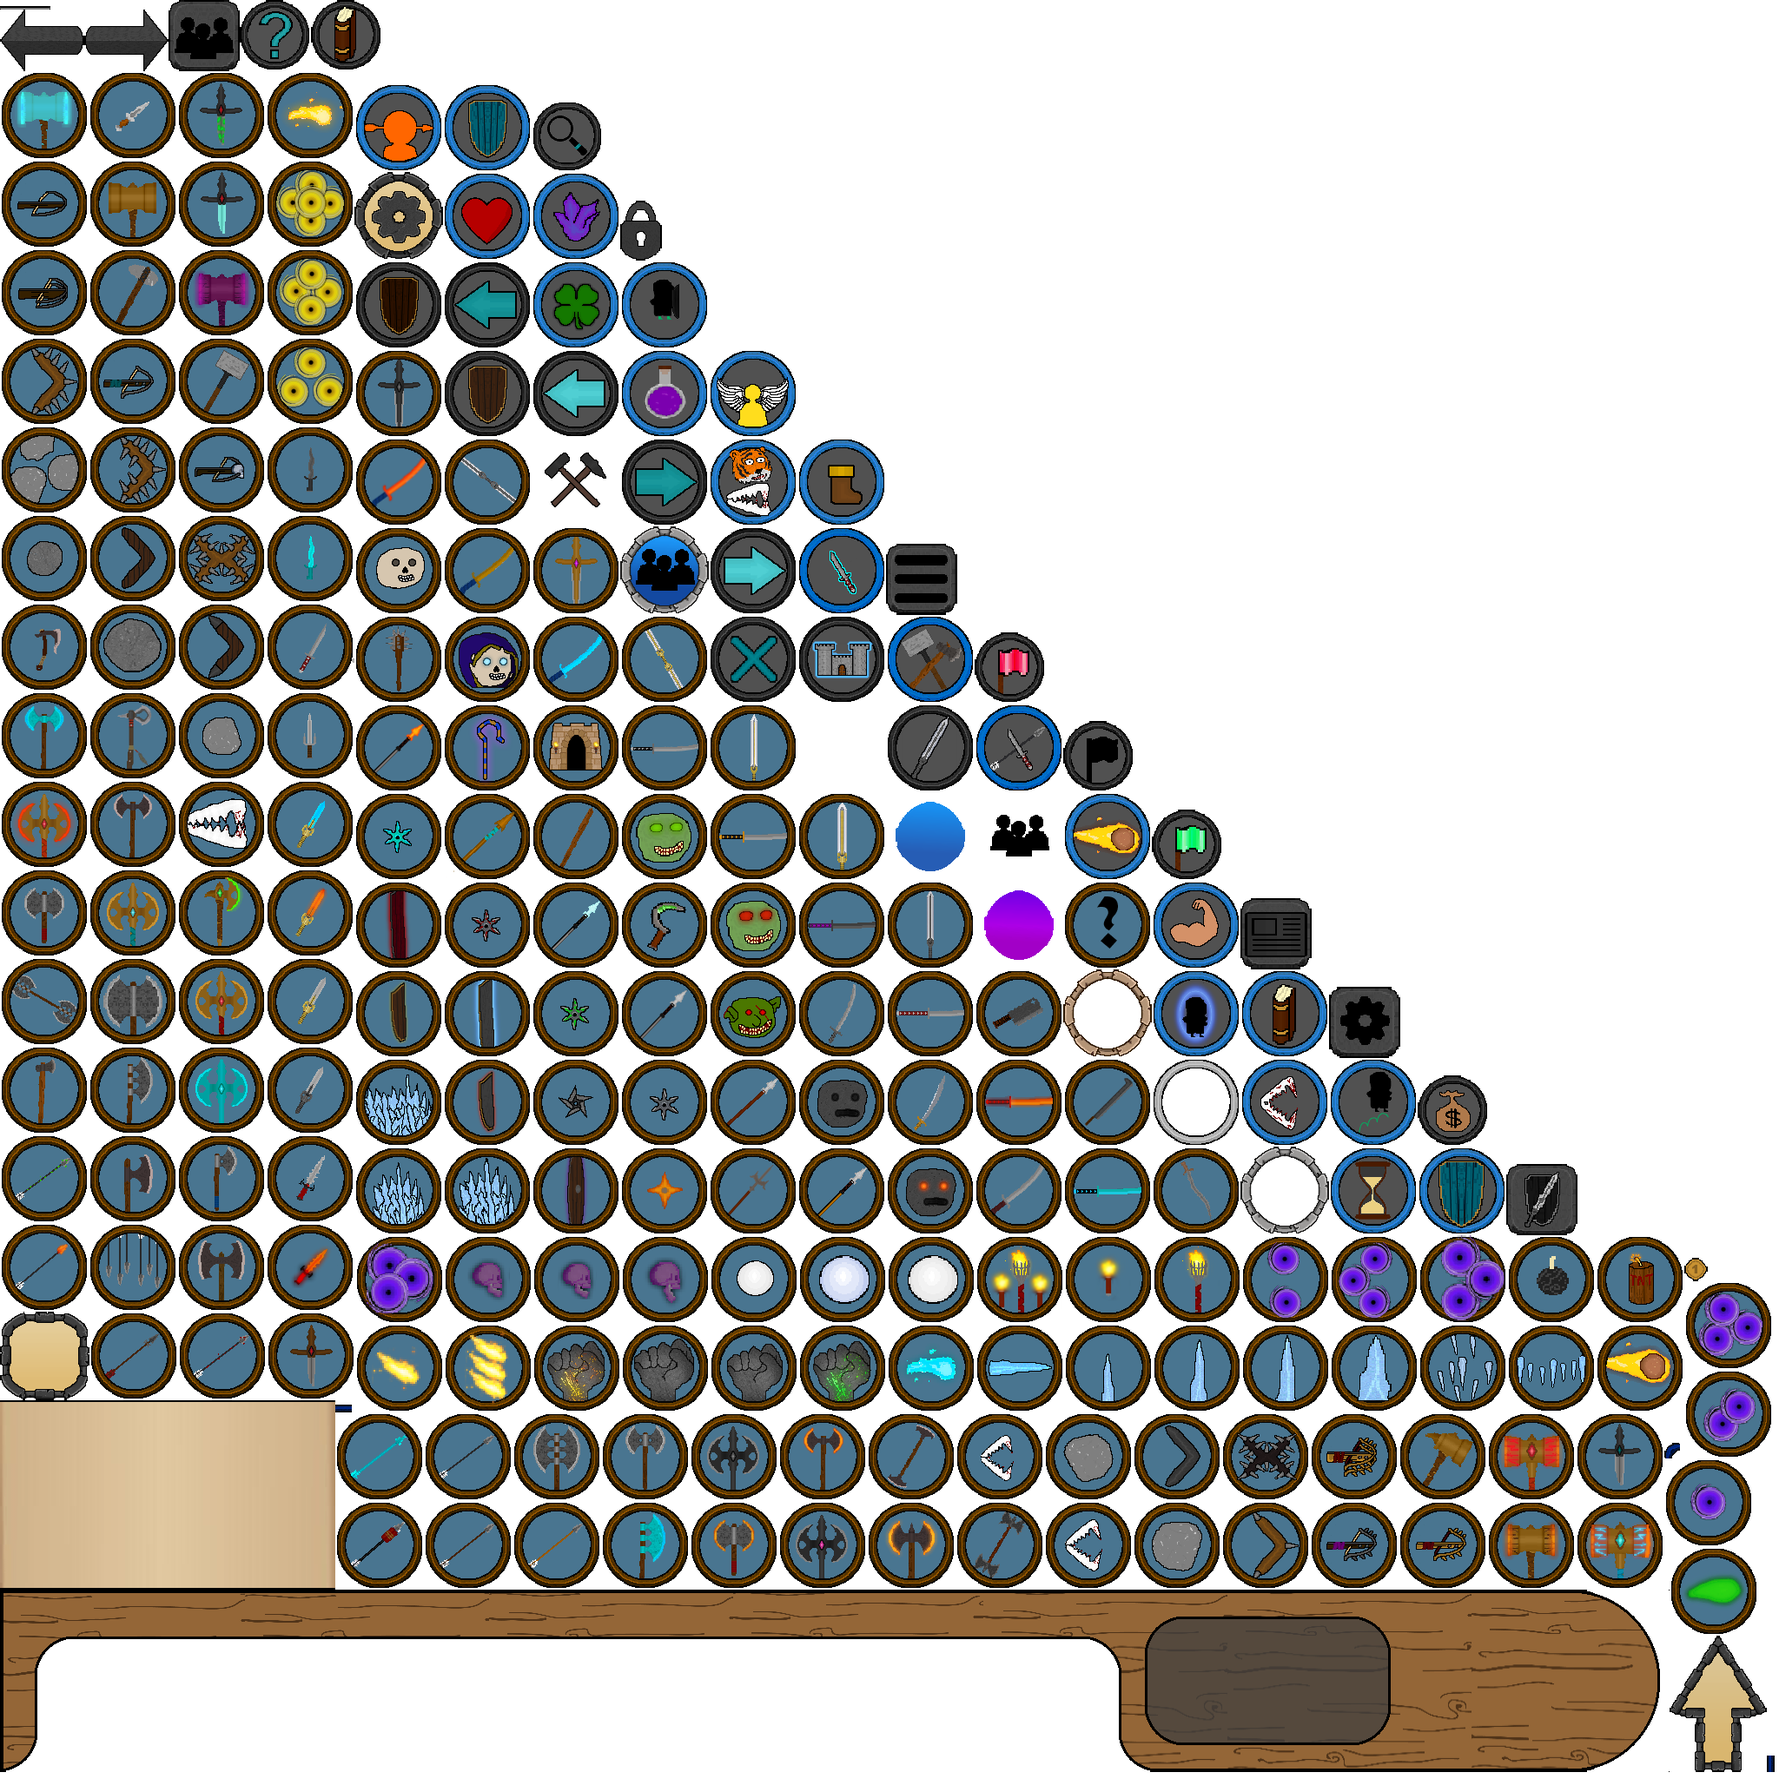
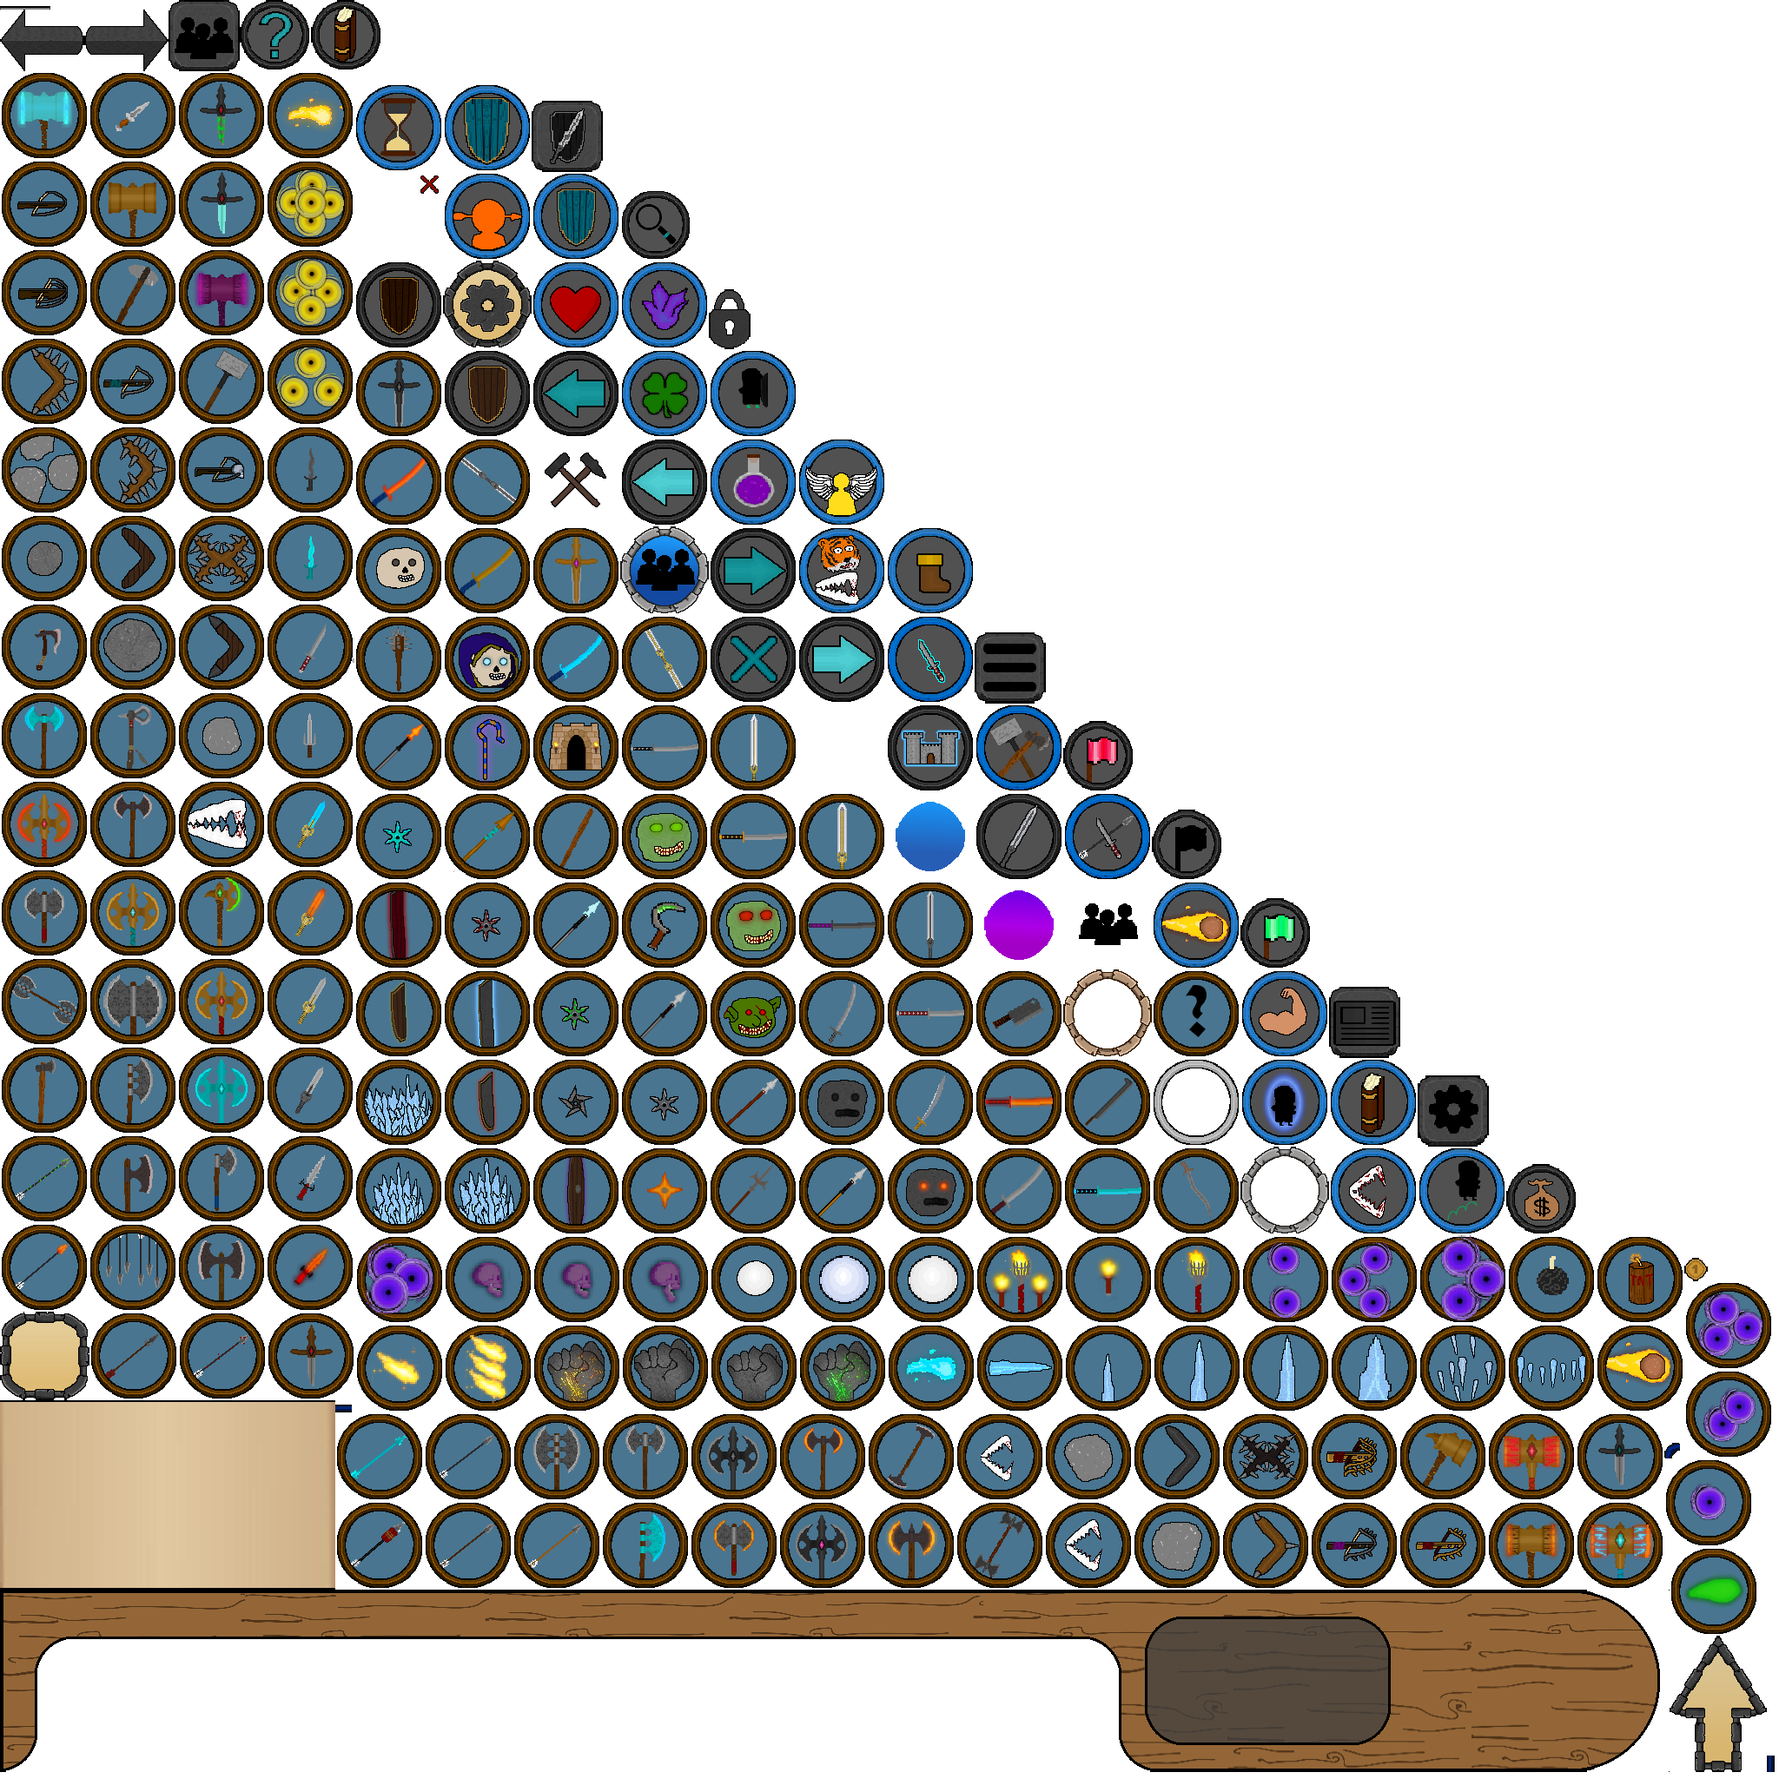
scheduled units are now displayed in UI and can be cancelled by the player

Changed region(s): [[0.1875, 0.0312, 0.9062, 0.7188]]

diff --git a/core/src/org/neubauerfelix/manawars/castledefense/player/CDControllerHuman.kt b/core/src/org/neubauerfelix/manawars/castledefense/player/CDControllerHuman.kt
@@ -1,22 +1,49 @@
 package org.neubauerfelix.manawars.castledefense.player
 
 import com.badlogic.gdx.graphics.Color
+import org.neubauerfelix.manawars.castledefense.CDConstants
 import org.neubauerfelix.manawars.castledefense.analysis.CDPlayerLiveAnalysis
 import org.neubauerfelix.manawars.castledefense.analysis.ICDPlayerLiveAnalysis
 import org.neubauerfelix.manawars.castledefense.components.CDComponentButtonImage
 import org.neubauerfelix.manawars.castledefense.components.CDComponentConditioned
+import org.neubauerfelix.manawars.castledefense.components.CDComponentScheduledUnit
 import org.neubauerfelix.manawars.castledefense.components.IPercentageCondition
 import org.neubauerfelix.manawars.game.GameConstants
 import org.neubauerfelix.manawars.game.IComponent
+import org.neubauerfelix.manawars.game.entities.GameLocation
+import org.neubauerfelix.manawars.game.entities.ILocated
 import org.neubauerfelix.manawars.manawars.MManaWars
+import org.neubauerfelix.manawars.manawars.data.units.IDataUnit
+import kotlin.math.min
 
 
 class CDControllerHuman() : ICDController {
+
+
+    companion object {
+
+        fun getScheduledActionButtonPosition(index: Int): ILocated {
+            val horMax = CDConstants.UI_SCHEDULED_UNIT_ICON_HOR_MAX
+            val horMin = CDConstants.UI_SCHEDULED_UNIT_ICON_HOR_MIN
+            val verMin = CDConstants.UI_SCHEDULED_UNIT_ICON_VER_MIN
+            val buttonSize = CDConstants.UI_SCHEDULED_UNIT_ICON_SIZE
+            val horDist = CDConstants.UI_SCHEDULED_UNIT_ICON_HOR_DIST
+            val verDist = CDConstants.UI_SCHEDULED_UNIT_ICON_VER_DIST
+            val horLength = horMax - horMin
+            val buttonsPerRow = ((horLength + 1* horDist)  / (buttonSize + horDist)).toInt()
+            val row = index / buttonsPerRow
+            val column = index % buttonsPerRow
+            return GameLocation(horMin + column * (buttonSize + horDist), verMin + row * (buttonSize + verDist))
+        }
+    }
+
 
     override lateinit var player: ICDPlayer
     override val analysis: ICDPlayerLiveAnalysis = CDPlayerLiveAnalysis() // analysis of own entities
 
     private val buttons: MutableList<IComponent> = arrayListOf()
+
+    private val scheduledActions: MutableList<IComponent> = arrayListOf()
 
 
     override val playerControlled: Boolean
@@ -40,13 +67,16 @@ class CDControllerHuman() : ICDController {
                 // TODO: display currently ordered units in GUI
                 if (player.castle.storedMoney >= unit.cost) {
                     player.orderUnitToBuild(unit)
+                    updateScheduledActionButtons()
                 }
             })
             val buttonConditioned = CDComponentConditioned(x, y, button, object : IPercentageCondition{
                 override val needed: Float
                     get() = unit.cost.toFloat()
                 override val available: Float
-                    get() = player.castle.storedMoney.toFloat()
+                    get() = min(player.castle.storedMoney,
+                            player.castle.unitCostPerCycle - player.unitsToBuildNextCycle.sumBy { it.cost }).
+                            toFloat()
             }, 0.8f)
             x = addButton(buttonConditioned, x)
         }
@@ -57,6 +87,32 @@ class CDControllerHuman() : ICDController {
         buttons.add(button)
         MManaWars.m.screen.addComponent(button)
         return x + GameConstants.CONTROLPANEL_BUTTON_DISTANCE + button.width
+    }
+
+    private fun addScheduledActionButton(unit: IDataUnit, scheduledActionsCount: Int, listener: Runnable) {
+        val index = scheduledActions.size
+        val pos = getScheduledActionButtonPosition((scheduledActionsCount - 1) - index)
+        val button = CDComponentScheduledUnit(pos.x, pos.y, CDConstants.UI_SCHEDULED_UNIT_ICON_SIZE,
+                CDConstants.UI_SCHEDULED_UNIT_ICON_SIZE, unit, listener)
+        scheduledActions.add(button)
+        MManaWars.m.screen.addComponent(button)
+    }
+
+    private fun updateScheduledActionButtons() {
+        // Step 1: remove all component elements
+        val screen = MManaWars.m.screen
+        for (c in scheduledActions) {
+            screen.removeComponent(c)
+        }
+        scheduledActions.clear()
+
+        // Step 2. re-add all elements that still exist / exist now
+        for ((index, unit) in player.unitsToBuildNextCycle.withIndex()) {
+            addScheduledActionButton(unit, player.unitsToBuildNextCycle.size, Runnable {
+                player.cancelUnitToBuild(index)
+                updateScheduledActionButtons()
+            })
+        }
     }
 
     fun showControlsBuildings() {
@@ -109,5 +165,9 @@ class CDControllerHuman() : ICDController {
     override fun dispose() {
         hideControls()
         analysis.dispose()
+    }
+
+    override fun executedUnitBuilding() {
+        updateScheduledActionButtons()
     }
 }

diff --git a/core/src/org/neubauerfelix/manawars/castledefense/CDConstants.kt b/core/src/org/neubauerfelix/manawars/castledefense/CDConstants.kt
@@ -1,6 +1,7 @@
 package org.neubauerfelix.manawars.castledefense
 
 import org.neubauerfelix.manawars.game.GameConstants
+import org.neubauerfelix.manawars.manawars.MConstants
 
 
 class CDConstants {
@@ -24,10 +25,10 @@ class CDConstants {
         const val CASTLE_MONEY_PER_CYCLE_BASE = 1f
 
         val KI_BALANCING_ENABLED = if (GameConstants.EVALUATION_MODE) false else true
-        const val KI_BALANCING_MAX_HELP_FACTOR = 1.3
+        const val KI_BALANCING_MAX_HELP_FACTOR = 1.0
         const val KI_BALANCING_MIN_HELP_FACTOR = 1 / KI_BALANCING_MAX_HELP_FACTOR
         // percentage of health the castle needs to fall below to get unit support (boss is spawned)
-        const val KI_BALANCING_CASTLE_SUPPORT_HEALTH = 0.33f
+        const val KI_BALANCING_CASTLE_SUPPORT_HEALTH = -1f
 
         const val UI_MENU_MAIN_USE_DETAILED_UNIT_ICONS = false
         const val UI_MENU_MAIN_UNIT_SCALE = 1.5f
@@ -39,6 +40,12 @@ class CDConstants {
         const val UI_MENU_UNITINFO_UNIT_PREVIEW_BOX_WIDTH = 800
         const val UI_MENU_UNITINFO_UNIT_PREVIEW_BOX_HEIGHT = 470
         const val UI_MENU_UNITINFO_ICON_SIZE = 200f
+        const val UI_SCHEDULED_UNIT_ICON_SIZE = 120f
+        const val UI_SCHEDULED_UNIT_ICON_HOR_MIN = 100f
+        const val UI_SCHEDULED_UNIT_ICON_VER_MIN = 240f
+        const val UI_SCHEDULED_UNIT_ICON_HOR_MAX = GameConstants.SCREEN_WIDTH - 100f
+        const val UI_SCHEDULED_UNIT_ICON_HOR_DIST = 10f
+        const val UI_SCHEDULED_UNIT_ICON_VER_DIST = 15f
         
     }
 }

diff --git a/core/src/org/neubauerfelix/manawars/castledefense/player/CDPlayer.kt b/core/src/org/neubauerfelix/manawars/castledefense/player/CDPlayer.kt
@@ -23,10 +23,12 @@ class CDPlayer(override val tribe: IDataTribe, override val controller: ICDContr
     private val unitsToBuildNow: MutableList<IDataUnit> = arrayListOf()
     private var nextUnitBuildTime = 0L
 
-    override fun orderUnitToBuild(unit: IDataUnit) {
-        require(castle.storedMoney >= unit.cost)
+    override fun orderUnitToBuild(unit: IDataUnit) : Int {
+        require(castle.storedMoney >= unit.cost &&
+                castle.unitCostPerCycle >= unit.cost + unitsToBuildNextCycle.sumBy { it.cost })
         unitsToBuildNextCycle.add(unit)
         castle.storedMoney -= unit.cost
+        return unitsToBuildNextCycle.size - 1
     }
 
     override  fun cancelUnitToBuild(index: Int) {
@@ -61,7 +63,7 @@ class CDPlayer(override val tribe: IDataTribe, override val controller: ICDContr
 
         this.castle = CDEntityCastle(castleLocation.x, castleLocation.y, textureName,
                 data.health, direction, team, spawnLocation,
-                data.moneyStart, data.moneyPerCycle, this)
+                data.moneyStart, data.moneyPerCycle, data.moneyPerCycle, this)
         this.castle.spawn()
 
         this.formation = CDFormationStrategic(tribe.army.units, this)
@@ -76,6 +78,7 @@ class CDPlayer(override val tribe: IDataTribe, override val controller: ICDContr
         if (!event.cancelled) {
             event.castle.storedMoney += event.moneyDifference
         }
+        controller.executedUnitBuilding()
     }
 
     override fun doLogic(delta: Float) {

diff --git a/core/src/org/neubauerfelix/manawars/castledefense/components/CDComponentCoreEntity.kt b/core/src/org/neubauerfelix/manawars/castledefense/components/CDComponentCoreEntity.kt
@@ -14,7 +14,7 @@ import org.neubauerfelix.manawars.manawars.handlers.StringUtils
 
 open class CDComponentCoreEntity(x: Float, y: Float, width: Float, height: Float, val entity: IDataCoreEntity,
                                 runnable: Runnable, val background: TextureRegion,
-                                 private val frameColor : Color?) :
+                                 private val frameColor : Color?, private val drawFrame: Boolean = true) :
         CDComponentEntity(x, y, width, height, entity.animation.produce(x + width * 0.1f, y + height*0.05f,
                 width*0.8f, height*0.8f, entity.action.weaponType), runnable), ILogicable {
 
@@ -41,8 +41,10 @@ open class CDComponentCoreEntity(x: Float, y: Float, width: Float, height: Float
 
         super.draw(batcher, parentOffsetX, parentOffsetY)
 
-        MManaWars.m.getCharacterBarHandler().drawFrame(batcher, parentOffsetX + x, parentOffsetY + y,
-                width, height, frameColor)
+        if (drawFrame) {
+            MManaWars.m.getCharacterBarHandler().drawFrame(batcher, parentOffsetX + x, parentOffsetY + y,
+                    width, height, frameColor)
+        }
 
         val offsetX = (width - text.width) * 0.5f
         val offsetY = (height - text.height) * 0.8f

diff --git a/core/src/org/neubauerfelix/manawars/castledefense/ki/traditional/CDKITraditionalRPS.kt b/core/src/org/neubauerfelix/manawars/castledefense/ki/traditional/CDKITraditionalRPS.kt
@@ -6,6 +6,7 @@ import org.neubauerfelix.manawars.castledefense.ki.ICDKI
 import org.neubauerfelix.manawars.castledefense.player.ICDPlayer
 import org.neubauerfelix.manawars.manawars.data.units.IDataUnit
 import org.neubauerfelix.manawars.manawars.enums.MWUnitType
+import kotlin.math.min
 
 /**
  * Smart KI which saves gold when not attacked and then launches strong attacks
@@ -33,7 +34,7 @@ class CDKITraditionalRPS() : ICDKI {
 
         val unitsForNextCycle = arrayListOf<IDataUnit>()
 
-        var moneyLeft = player.castle.storedMoney // TODO: later only use some of the money
+        var moneyLeft = min(player.castle.storedMoney, player.castle.unitCostPerCycle) // TODO: later only use some of the money
         println("money stored is $moneyLeft")
         val units = player.tribe.army.units
         val cheapestUnitCost = units.map { it.cost }.min()!!

diff --git a/core/src/org/neubauerfelix/manawars/castledefense/components/CDComponentConditioned.kt b/core/src/org/neubauerfelix/manawars/castledefense/components/CDComponentConditioned.kt
@@ -20,5 +20,19 @@ class CDComponentConditioned(x: Float, y: Float, subComponent: IComponent, priva
                     condition, 0L)
         }
     }
+
+    override fun touch(x: Float, y: Float, pointerId: Int): Boolean {
+        if (condition.locked) {
+            return false
+        }
+        return super.touch(x, y, pointerId)
+    }
+
+    override fun release(x: Float, y: Float, pointerId: Int): Boolean {
+        if (condition.locked) {
+            return false
+        }
+        return super.release(x, y, pointerId)
+    }
 }
 

diff --git a/core/src/org/neubauerfelix/manawars/castledefense/menu/BoxUnitInfoComplex.kt b/core/src/org/neubauerfelix/manawars/castledefense/menu/BoxUnitInfoComplex.kt
@@ -13,7 +13,7 @@ import org.neubauerfelix.manawars.manawars.entities.MEntityImage
 import org.neubauerfelix.manawars.manawars.entities.controller.ControllerAction
 import org.neubauerfelix.manawars.manawars.entities.controller.ControllerDummy
 
-class BoxUnitInfoComplex(x: Float, y: Float, val previewBackground: TextureRegion, val unit: IDataUnit) : MComponentContainer(x, y) {
+class BoxUnitInfoComplex(x: Float, y: Float, previewBackground: TextureRegion, val unit: IDataUnit) : MComponentContainer(x, y) {
 
 
     val background: IEntity

diff --git a/core/src/org/neubauerfelix/manawars/castledefense/components/CDComponentScheduledUnit.kt b/core/src/org/neubauerfelix/manawars/castledefense/components/CDComponentScheduledUnit.kt
@@ -1,0 +1,9 @@
+package org.neubauerfelix.manawars.castledefense.components
+
+import org.neubauerfelix.manawars.manawars.MManaWars
+import org.neubauerfelix.manawars.manawars.data.units.IDataUnit
+
+class CDComponentScheduledUnit(x: Float, y: Float, width: Float, height: Float, val unit : IDataUnit, listener: Runnable) :
+        CDComponentCoreEntity(x, y, width, height, unit, listener,
+                MManaWars.m.getImageHandler().getTextureRegionButton("frame.scheduled"), unit.armor.color,
+                false)

diff --git a/core/src/org/neubauerfelix/manawars/castledefense/entities/CDEntityCastle.kt b/core/src/org/neubauerfelix/manawars/castledefense/entities/CDEntityCastle.kt
@@ -15,6 +15,7 @@ class CDEntityCastle(x: Float, y: Float,
                      override val unitSpawnLocation: ILocated,
                      startMoney: Int,
                      override var moneyPerCycle: Int,
+                     override val unitCostPerCycle: Int,
                      override val player: ICDPlayer) :
         MEntityAnimated(IEntityAnimationProducer.createProducerBuilding(textureNameAlive), 0f, health),
         ICDEntityCastle {

diff --git a/core/src/org/neubauerfelix/manawars/castledefense/player/ICDPlayer.kt b/core/src/org/neubauerfelix/manawars/castledefense/player/ICDPlayer.kt
@@ -20,7 +20,7 @@ interface ICDPlayer : ITeamable, ILoadable, IDisposable, ILogicable {
     val enemy: ICDPlayer
 
     val unitsToBuildNextCycle: List<IDataUnit>
-    fun orderUnitToBuild(unit: IDataUnit)
+    fun orderUnitToBuild(unit: IDataUnit): Int // returns index of unit to build in the schedule
     fun cancelUnitToBuild(index: Int)
     fun clearUnitsToBuild()
 

diff --git a/core/src/org/neubauerfelix/manawars/manawars/MConstants.kt b/core/src/org/neubauerfelix/manawars/manawars/MConstants.kt
@@ -113,7 +113,7 @@ class MConstants {
         // units
         const val UNIT_ANALYSIS_FILE_NAME = "unitanalysis.yml"
         const val UNIT_AVG_WALK_SPEED_MAX = 300f
-        const val UNIT_AVG_WALK_ACC = 400f
+        const val UNIT_AVG_WALK_ACC = 600f
         const val UNIT_RIDER_SPEED_FACTOR = 1f
         const val UNIT_RIDER_ACC_FACTOR = 1f
 

diff --git a/core/src/org/neubauerfelix/manawars/castledefense/entities/ICDEntityCastle.kt b/core/src/org/neubauerfelix/manawars/castledefense/entities/ICDEntityCastle.kt
@@ -8,6 +8,7 @@ interface ICDEntityCastle : ICDEntityBuilding{
     val unitSpawnLocation: ILocated
     var storedMoney: Int // for special actions
     var moneyPerCycle: Int // for units
+    val unitCostPerCycle: Int // max allowed unit cost (space) per cycle
     val player: ICDPlayer
 
 }
